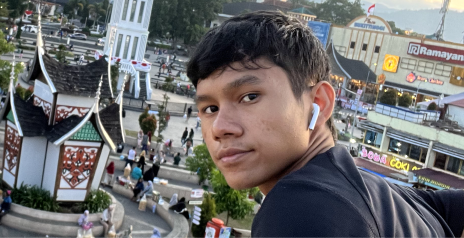
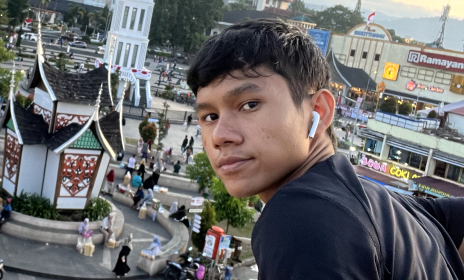
refactor: change developer photo

diff --git a/src/components/modules/LandingPage/DeveloperCard.tsx b/src/components/modules/LandingPage/DeveloperCard.tsx
@@ -15,8 +15,8 @@ const DeveloperCard: React.FC<DeveloperCardProps> = ({
       <div className="rounded-[14px] overflow-hidden">
         <Image
           src={developer.image}
-          width={464} height={238} alt="Developer"
-          className="transition motion-safe:group-hover:scale-105 w-full aspect-[232/119] object-cover rounded-[14px]"
+          width={464} height={280} alt="Developer"
+          className="transition motion-safe:group-hover:scale-105 w-full aspect-[58/35] object-cover rounded-[14px]"
         />
       </div>
 
